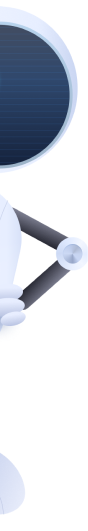
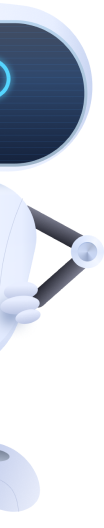
feat: bottom style

diff --git a/assets/icons/BottomSVG.tsx b/assets/icons/BottomSVG.tsx
@@ -1,0 +1,69 @@
+import React from 'react';
+import {View, StyleSheet} from 'react-native';
+import Svg, {Path, Defs, LinearGradient, Stop} from 'react-native-svg';
+
+const SVGComponent = () => {
+  return (
+    <View style={styles.container}>
+      <Svg width={375} height={169} viewBox="0 0 375 169" fill="none">
+        <Defs>
+          <LinearGradient
+            id="paint0_linear_1_433"
+            x1="888.778"
+            y1="0"
+            x2="888.778"
+            y2="268.888"
+            gradientUnits="userSpaceOnUse">
+            <Stop stopColor="#3664BC" />
+            <Stop offset="1" stopColor="#0F623F" stopOpacity="0.93" />
+          </LinearGradient>
+          <Filter
+            id="filter0_i_1_433"
+            x="-382"
+            y="0"
+            width="2541.56"
+            height="272.888"
+            filterUnits="userSpaceOnUse"
+            colorInterpolationFilters="sRGB">
+            <feFlood floodOpacity="0" result="BackgroundImageFix" />
+            <feBlend
+              mode="normal"
+              in="SourceGraphic"
+              in2="BackgroundImageFix"
+              result="shape"
+            />
+            <feColorMatrix
+              in="SourceAlpha"
+              type="matrix"
+              values="0 0 0 0 0 0 0 0 0 0 0 0 0 0 0 0 0 0 127 0"
+              result="hardAlpha"
+            />
+            <feOffset dy="4" />
+            <feGaussianBlur stdDeviation="22" />
+            <feComposite in2="hardAlpha" operator="arithmetic" k2="-1" k3="1" />
+            <feColorMatrix
+              type="matrix"
+              values="0 0 0 0 0.382124 0 0 0 0 0.740492 0 0 0 0 1 0 0 0 0.25 0"
+            />
+            <feBlend mode="normal" in2="shape" />
+          </Filter>
+        </Defs>
+        <Path
+          d="M-159 52.3885C-218.6 83.9885 -332.5 73.5552 -382 64.3885V224.388L2150.5 268.888C2157.33 196.722 2166.9 52.3885 2150.5 52.3885C2130 52.3885 1985.5 15.3885 1869 31.8885C1752.5 48.3885 1579 52.3885 1537 31.8885C1495 11.3885 1441.5 1.38849 1407 15.3885C1372.5 29.3885 1295.5 31.8885 1218.5 15.3885C1141.5 -1.11152 974.5 -14.6115 854 31.8885C733.5 78.3885 559 78.3885 384.5 31.8885C210 -14.6115 -84.5 12.8885 -159 52.3885Z"
+          fill="url(#paint0_linear_1_433)"
+          filter="url(#filter0_i_1_433)"
+        />
+      </Svg>
+    </View>
+  );
+};
+
+const styles = StyleSheet.create({
+  container: {
+    flex: 1,
+    alignItems: 'center',
+    justifyContent: 'center',
+  },
+});
+
+export default SVGComponent;

diff --git a/components/Screens/Onboarding/WelcomeScreen2.tsx b/components/Screens/Onboarding/WelcomeScreen2.tsx
@@ -4,6 +4,7 @@ import {
   ImageBackground,
   StyleSheet,
   Text,
+  View,
 } from 'react-native';
 import React from 'react';
 import {colors, stylesConst} from '../../../constants';
@@ -35,6 +36,7 @@ const WelcomeScreen2: React.FC<{
       <Image
         source={require('../../../assets/robot2.png')}
         style={styles.image}
+        resizeMode="contain"
       />
 
       <Animated.View style={[styles.textContainer, rStyle]}>
@@ -44,11 +46,33 @@ const WelcomeScreen2: React.FC<{
         <Text style={stylesConst.text_14_r}>
           за счет своих встроенных алгоритмов они увеличат ваш заработок
         </Text>
+        <View style={{position: 'absolute', flex: 1}}>
+          <Image
+            style={{
+              width: (width * 170) / 375,
+              top: (256 * height) / 670,
+              left: (56 * width) / 375,
+              position: 'absolute',
+            }}
+            source={require('../../../assets/analytics.png')}
+            resizeMode="contain"
+          />
+          <Image
+            style={{
+              width: (width * 179) / 375,
+              top: (307 * height) / 670,
+              left: (189 * width) / 375,
+              position: 'absolute',
+            }}
+            source={require('../../../assets/bot.png')}
+            resizeMode="contain"
+          />
+        </View>
       </Animated.View>
     </ImageBackground>
   );
 };
-const {width} = Dimensions.get('window');
+const {width, height} = Dimensions.get('window');
 export default WelcomeScreen2;
 
 const styles = StyleSheet.create({
@@ -102,8 +126,8 @@ const styles = StyleSheet.create({
   },
   image: {
     position: 'absolute',
-    height: 265,
-    width: 44,
-    bottom: 92,
+    left: 0,
+    width: (51 * width) / 375,
+    bottom: 0,
   },
 });

diff --git a/components/Screens/Onboarding/WelcomeScreen1.tsx b/components/Screens/Onboarding/WelcomeScreen1.tsx
@@ -58,6 +58,16 @@ const WelcomeScreen1: React.FC<{
         style={styles.image}
         resizeMode="contain"
       />
+
+      <Image
+        source={require('../../../assets/bottom1.png')}
+        style={{
+          position: 'absolute',
+          width: width,
+
+          height: '100%',
+        }}
+      />
     </ImageBackground>
   );
 };
@@ -113,9 +123,8 @@ const styles = StyleSheet.create({
   },
   image: {
     position: 'absolute',
-    right: -4,
-    width: 172,
-    height: 265,
-    bottom: 92,
+    right: 0,
+    width: (162 * width) / 375,
+    bottom: 0,
   },
 });
